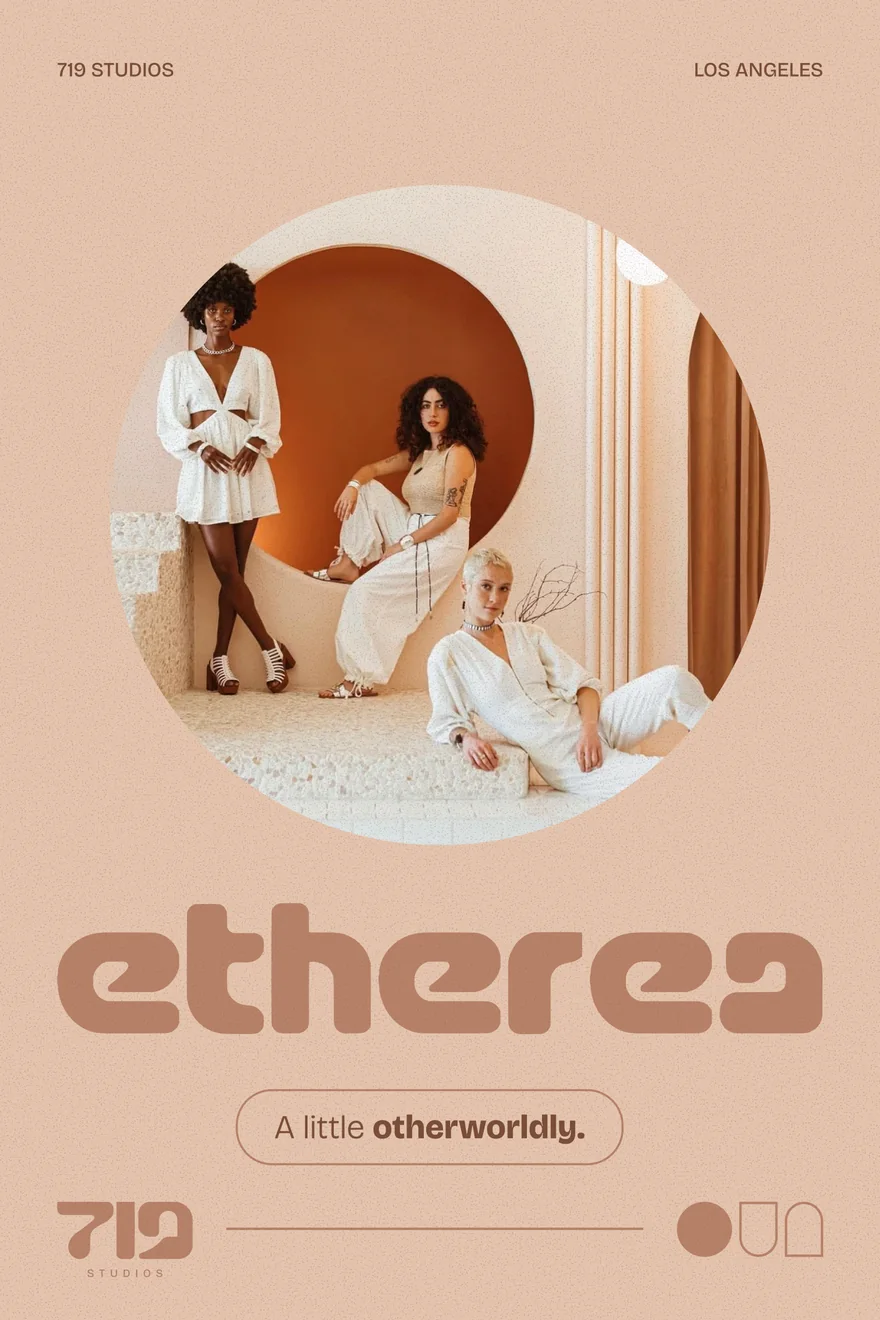
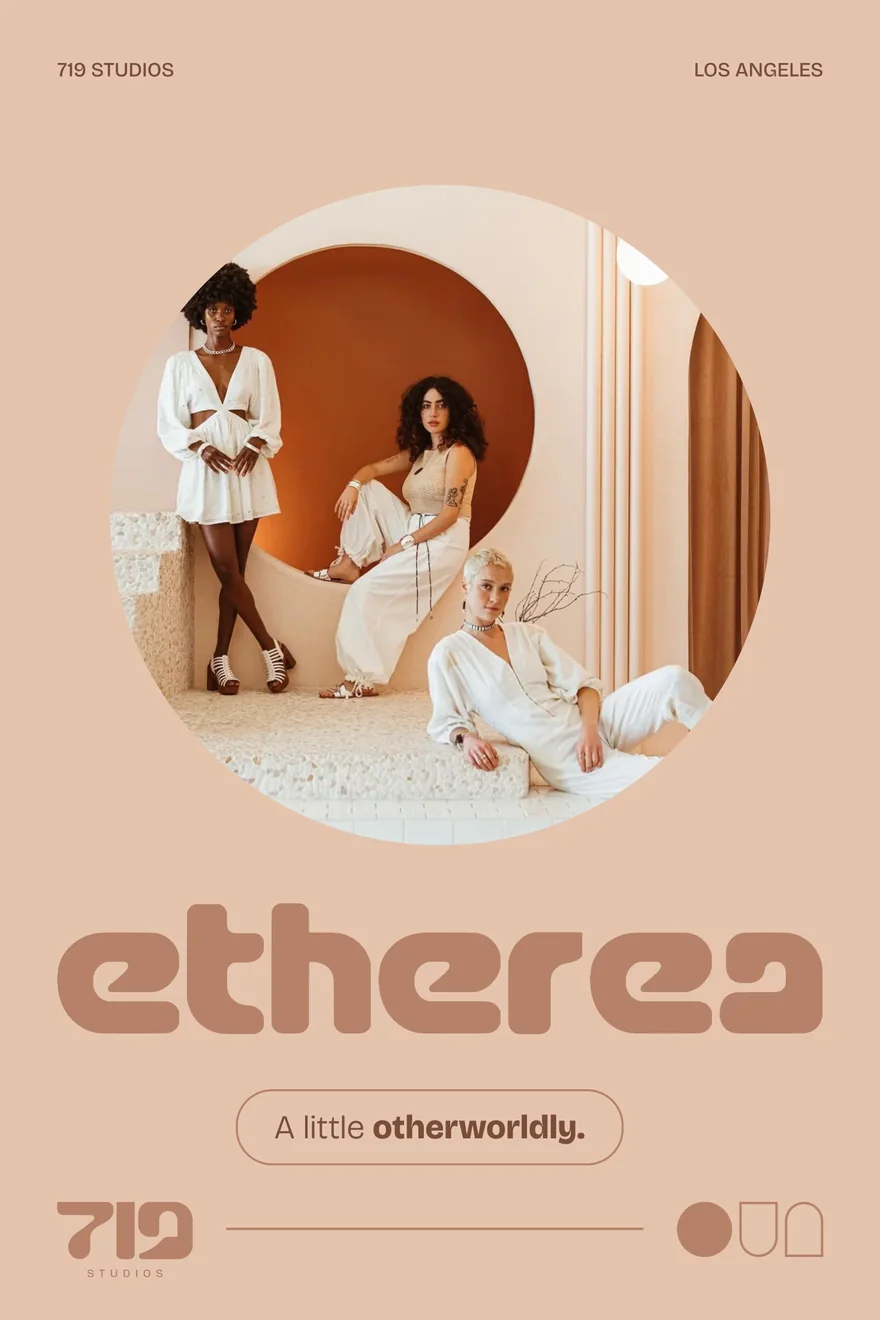
719 Studios: posters without the paper grain
The noise effect is removed from the three posters; the corner shapes and footer rule stay.

diff --git a/work/719-studios/index.html b/work/719-studios/index.html
@@ -85,21 +85,21 @@
     </div>
   </section>
   <div class="g">
-    <figure class="cell c12" data-reveal role="img" aria-label="The 719 Studios logo set inside the orange circle of the Etherea room"><img src="../../assets/img/work/719/deck/figma/04-etherea-1920.webp?v=20261117b" srcset="../../assets/img/work/719/deck/figma/04-etherea-960.webp?v=20261117b 960w, ../../assets/img/work/719/deck/figma/04-etherea-1920.webp?v=20261117b 1920w" sizes="100vw" width="1920" height="1080" alt="" decoding="async"></figure>
-    <figure class="cell c12" data-reveal role="img" aria-label="The five brand colours with their names and values: Umber, Clay, Blush, Sand and Birch"><img src="../../assets/img/work/719/deck/figma/02-palette-1920.webp?v=20261117b" srcset="../../assets/img/work/719/deck/figma/02-palette-960.webp?v=20261117b 960w, ../../assets/img/work/719/deck/figma/02-palette-1920.webp?v=20261117b 1920w" sizes="100vw" width="1920" height="1080" alt="" loading="lazy" decoding="async"></figure>
-    <figure class="cell c6" data-reveal role="img" aria-label="The 719 Studios logo in clay on a pale birch ground"><img src="../../assets/img/work/719/deck/figma/01-logo-1920.webp?v=20261117b" srcset="../../assets/img/work/719/deck/figma/01-logo-960.webp?v=20261117b 960w, ../../assets/img/work/719/deck/figma/01-logo-1920.webp?v=20261117b 1920w" sizes="(max-width: 799px) 100vw, 50vw" width="1920" height="1080" alt="" loading="lazy" decoding="async"></figure>
-    <figure class="cell c6" data-reveal role="img" aria-label="The typeface Bricolage Grotesque in three weights, with the three studio taglines"><img src="../../assets/img/work/719/deck/figma/03-type-1920.webp?v=20261117b" srcset="../../assets/img/work/719/deck/figma/03-type-960.webp?v=20261117b 960w, ../../assets/img/work/719/deck/figma/03-type-1920.webp?v=20261117b 1920w" sizes="(max-width: 799px) 100vw, 50vw" width="1920" height="1080" alt="" loading="lazy" decoding="async"></figure>
-    <figure class="cell c4 tall" data-reveal role="img" aria-label="The Etherea poster: its room through a circle, with the line A little otherworldly"><img src="../../assets/img/work/719/deck/figma/05-poster-etherea-880.webp?v=20261117b" srcset="../../assets/img/work/719/deck/figma/05-poster-etherea-440.webp?v=20261117b 440w, ../../assets/img/work/719/deck/figma/05-poster-etherea-880.webp?v=20261117b 880w, ../../assets/img/work/719/deck/figma/05-poster-etherea-1180.webp?v=20261117b 1180w" sizes="(max-width: 799px) 100vw, 33vw" width="1468" height="2202" alt="" loading="lazy" decoding="async"></figure>
-    <figure class="cell c4 tall" data-reveal role="img" aria-label="The Terra poster: its room through an upside-down arch, with the line Find your own angle"><img src="../../assets/img/work/719/deck/figma/05-poster-terra-880.webp?v=20261117b" srcset="../../assets/img/work/719/deck/figma/05-poster-terra-440.webp?v=20261117b 440w, ../../assets/img/work/719/deck/figma/05-poster-terra-880.webp?v=20261117b 880w, ../../assets/img/work/719/deck/figma/05-poster-terra-1180.webp?v=20261117b 1180w" sizes="(max-width: 799px) 100vw, 33vw" width="1468" height="2202" alt="" loading="lazy" decoding="async"></figure>
-    <figure class="cell c4 tall" data-reveal role="img" aria-label="The Solaris poster: its room through an arch, with the line Let the light in"><img src="../../assets/img/work/719/deck/figma/05-poster-solaris-880.webp?v=20261117b" srcset="../../assets/img/work/719/deck/figma/05-poster-solaris-440.webp?v=20261117b 440w, ../../assets/img/work/719/deck/figma/05-poster-solaris-880.webp?v=20261117b 880w, ../../assets/img/work/719/deck/figma/05-poster-solaris-1180.webp?v=20261117b 1180w" sizes="(max-width: 799px) 100vw, 33vw" width="1468" height="2202" alt="" loading="lazy" decoding="async"></figure>
-    <figure class="cell c12" data-reveal role="img" aria-label="Four figures over a photo taken at Etherea: 1,000+ reviews, 5.0 average rating, No. 9 on Peerspace in Los Angeles in 2023, 3.2M timelapse views"><img src="../../assets/img/work/719/deck/figma/06-numbers-1920.webp?v=20261117b" srcset="../../assets/img/work/719/deck/figma/06-numbers-960.webp?v=20261117b 960w, ../../assets/img/work/719/deck/figma/06-numbers-1920.webp?v=20261117b 1920w" sizes="100vw" width="1920" height="1080" alt="" loading="lazy" decoding="async"></figure>
-    <figure class="cell c6" data-reveal role="img" aria-label="The 719 Studios logo over the empty Terra room"><img src="../../assets/img/work/719/deck/figma/07-terra-1920.webp?v=20261117b" srcset="../../assets/img/work/719/deck/figma/07-terra-960.webp?v=20261117b 960w, ../../assets/img/work/719/deck/figma/07-terra-1920.webp?v=20261117b 1920w" sizes="(max-width: 799px) 100vw, 50vw" width="1920" height="1080" alt="" loading="lazy" decoding="async"></figure>
-    <figure class="cell c6" data-reveal role="img" aria-label="Two oversized studio shapes with a circle between them holding the logo"><img src="../../assets/img/work/719/deck/figma/09-pattern-shapes-1920.webp?v=20261117b" srcset="../../assets/img/work/719/deck/figma/09-pattern-shapes-960.webp?v=20261117b 960w, ../../assets/img/work/719/deck/figma/09-pattern-shapes-1920.webp?v=20261117b 1920w" sizes="(max-width: 799px) 100vw, 50vw" width="1920" height="1080" alt="" loading="lazy" decoding="async"></figure>
-    <figure class="cell c12" data-reveal role="img" aria-label="A concept ad banner with the line Room to make and three photos seen through the studio shapes"><img src="../../assets/img/work/719/deck/figma/10-ad-1920.webp?v=20261117b" srcset="../../assets/img/work/719/deck/figma/10-ad-960.webp?v=20261117b 960w, ../../assets/img/work/719/deck/figma/10-ad-1920.webp?v=20261117b 1920w" sizes="100vw" width="1920" height="1080" alt="" loading="lazy" decoding="async"></figure>
-    <figure class="cell c6" data-reveal role="img" aria-label="A concept email signature with the three studio shapes and the logo"><img src="../../assets/img/work/719/deck/figma/11-email-1920.webp?v=20261117b" srcset="../../assets/img/work/719/deck/figma/11-email-960.webp?v=20261117b 960w, ../../assets/img/work/719/deck/figma/11-email-1920.webp?v=20261117b 1920w" sizes="(max-width: 799px) 100vw, 50vw" width="1920" height="1080" alt="" loading="lazy" decoding="async"></figure>
-    <figure class="cell c6" data-reveal role="img" aria-label="A concept website header with the line Room to make and a large circular photo"><img src="../../assets/img/work/719/deck/figma/12-website-1920.webp?v=20261117b" srcset="../../assets/img/work/719/deck/figma/12-website-960.webp?v=20261117b 960w, ../../assets/img/work/719/deck/figma/12-website-1920.webp?v=20261117b 1920w" sizes="(max-width: 799px) 100vw, 50vw" width="1920" height="1080" alt="" loading="lazy" decoding="async"></figure>
-    <figure class="cell c6" data-reveal role="img" aria-label="A concept T-shirt in clay with the three studio shapes on the back, worn in a room like Solaris"><img src="../../assets/img/work/719/deck/figma/13-shirt-1920.webp?v=20261117b" srcset="../../assets/img/work/719/deck/figma/13-shirt-960.webp?v=20261117b 960w, ../../assets/img/work/719/deck/figma/13-shirt-1920.webp?v=20261117b 1920w" sizes="(max-width: 799px) 100vw, 50vw" width="1920" height="1080" alt="" loading="lazy" decoding="async"></figure>
-    <figure class="cell c6" data-reveal role="img" aria-label="A concept canvas tote bag with the logo, carried in a room like Terra"><img src="../../assets/img/work/719/deck/figma/14-tote-1920.webp?v=20261117b" srcset="../../assets/img/work/719/deck/figma/14-tote-960.webp?v=20261117b 960w, ../../assets/img/work/719/deck/figma/14-tote-1920.webp?v=20261117b 1920w" sizes="(max-width: 799px) 100vw, 50vw" width="1920" height="1080" alt="" loading="lazy" decoding="async"></figure>
+    <figure class="cell c12" data-reveal role="img" aria-label="The 719 Studios logo set inside the orange circle of the Etherea room"><img src="../../assets/img/work/719/deck/figma/04-etherea-1920.webp?v=20261117c" srcset="../../assets/img/work/719/deck/figma/04-etherea-960.webp?v=20261117c 960w, ../../assets/img/work/719/deck/figma/04-etherea-1920.webp?v=20261117c 1920w" sizes="100vw" width="1920" height="1080" alt="" decoding="async"></figure>
+    <figure class="cell c12" data-reveal role="img" aria-label="The five brand colours with their names and values: Umber, Clay, Blush, Sand and Birch"><img src="../../assets/img/work/719/deck/figma/02-palette-1920.webp?v=20261117c" srcset="../../assets/img/work/719/deck/figma/02-palette-960.webp?v=20261117c 960w, ../../assets/img/work/719/deck/figma/02-palette-1920.webp?v=20261117c 1920w" sizes="100vw" width="1920" height="1080" alt="" loading="lazy" decoding="async"></figure>
+    <figure class="cell c6" data-reveal role="img" aria-label="The 719 Studios logo in clay on a pale birch ground"><img src="../../assets/img/work/719/deck/figma/01-logo-1920.webp?v=20261117c" srcset="../../assets/img/work/719/deck/figma/01-logo-960.webp?v=20261117c 960w, ../../assets/img/work/719/deck/figma/01-logo-1920.webp?v=20261117c 1920w" sizes="(max-width: 799px) 100vw, 50vw" width="1920" height="1080" alt="" loading="lazy" decoding="async"></figure>
+    <figure class="cell c6" data-reveal role="img" aria-label="The typeface Bricolage Grotesque in three weights, with the three studio taglines"><img src="../../assets/img/work/719/deck/figma/03-type-1920.webp?v=20261117c" srcset="../../assets/img/work/719/deck/figma/03-type-960.webp?v=20261117c 960w, ../../assets/img/work/719/deck/figma/03-type-1920.webp?v=20261117c 1920w" sizes="(max-width: 799px) 100vw, 50vw" width="1920" height="1080" alt="" loading="lazy" decoding="async"></figure>
+    <figure class="cell c4 tall" data-reveal role="img" aria-label="The Etherea poster: its room through a circle, with the line A little otherworldly"><img src="../../assets/img/work/719/deck/figma/05-poster-etherea-880.webp?v=20261117c" srcset="../../assets/img/work/719/deck/figma/05-poster-etherea-440.webp?v=20261117c 440w, ../../assets/img/work/719/deck/figma/05-poster-etherea-880.webp?v=20261117c 880w, ../../assets/img/work/719/deck/figma/05-poster-etherea-1180.webp?v=20261117c 1180w" sizes="(max-width: 799px) 100vw, 33vw" width="1468" height="2202" alt="" loading="lazy" decoding="async"></figure>
+    <figure class="cell c4 tall" data-reveal role="img" aria-label="The Terra poster: its room through an upside-down arch, with the line Find your own angle"><img src="../../assets/img/work/719/deck/figma/05-poster-terra-880.webp?v=20261117c" srcset="../../assets/img/work/719/deck/figma/05-poster-terra-440.webp?v=20261117c 440w, ../../assets/img/work/719/deck/figma/05-poster-terra-880.webp?v=20261117c 880w, ../../assets/img/work/719/deck/figma/05-poster-terra-1180.webp?v=20261117c 1180w" sizes="(max-width: 799px) 100vw, 33vw" width="1468" height="2202" alt="" loading="lazy" decoding="async"></figure>
+    <figure class="cell c4 tall" data-reveal role="img" aria-label="The Solaris poster: its room through an arch, with the line Let the light in"><img src="../../assets/img/work/719/deck/figma/05-poster-solaris-880.webp?v=20261117c" srcset="../../assets/img/work/719/deck/figma/05-poster-solaris-440.webp?v=20261117c 440w, ../../assets/img/work/719/deck/figma/05-poster-solaris-880.webp?v=20261117c 880w, ../../assets/img/work/719/deck/figma/05-poster-solaris-1180.webp?v=20261117c 1180w" sizes="(max-width: 799px) 100vw, 33vw" width="1468" height="2202" alt="" loading="lazy" decoding="async"></figure>
+    <figure class="cell c12" data-reveal role="img" aria-label="Four figures over a photo taken at Etherea: 1,000+ reviews, 5.0 average rating, No. 9 on Peerspace in Los Angeles in 2023, 3.2M timelapse views"><img src="../../assets/img/work/719/deck/figma/06-numbers-1920.webp?v=20261117c" srcset="../../assets/img/work/719/deck/figma/06-numbers-960.webp?v=20261117c 960w, ../../assets/img/work/719/deck/figma/06-numbers-1920.webp?v=20261117c 1920w" sizes="100vw" width="1920" height="1080" alt="" loading="lazy" decoding="async"></figure>
+    <figure class="cell c6" data-reveal role="img" aria-label="The 719 Studios logo over the empty Terra room"><img src="../../assets/img/work/719/deck/figma/07-terra-1920.webp?v=20261117c" srcset="../../assets/img/work/719/deck/figma/07-terra-960.webp?v=20261117c 960w, ../../assets/img/work/719/deck/figma/07-terra-1920.webp?v=20261117c 1920w" sizes="(max-width: 799px) 100vw, 50vw" width="1920" height="1080" alt="" loading="lazy" decoding="async"></figure>
+    <figure class="cell c6" data-reveal role="img" aria-label="Two oversized studio shapes with a circle between them holding the logo"><img src="../../assets/img/work/719/deck/figma/09-pattern-shapes-1920.webp?v=20261117c" srcset="../../assets/img/work/719/deck/figma/09-pattern-shapes-960.webp?v=20261117c 960w, ../../assets/img/work/719/deck/figma/09-pattern-shapes-1920.webp?v=20261117c 1920w" sizes="(max-width: 799px) 100vw, 50vw" width="1920" height="1080" alt="" loading="lazy" decoding="async"></figure>
+    <figure class="cell c12" data-reveal role="img" aria-label="A concept ad banner with the line Room to make and three photos seen through the studio shapes"><img src="../../assets/img/work/719/deck/figma/10-ad-1920.webp?v=20261117c" srcset="../../assets/img/work/719/deck/figma/10-ad-960.webp?v=20261117c 960w, ../../assets/img/work/719/deck/figma/10-ad-1920.webp?v=20261117c 1920w" sizes="100vw" width="1920" height="1080" alt="" loading="lazy" decoding="async"></figure>
+    <figure class="cell c6" data-reveal role="img" aria-label="A concept email signature with the three studio shapes and the logo"><img src="../../assets/img/work/719/deck/figma/11-email-1920.webp?v=20261117c" srcset="../../assets/img/work/719/deck/figma/11-email-960.webp?v=20261117c 960w, ../../assets/img/work/719/deck/figma/11-email-1920.webp?v=20261117c 1920w" sizes="(max-width: 799px) 100vw, 50vw" width="1920" height="1080" alt="" loading="lazy" decoding="async"></figure>
+    <figure class="cell c6" data-reveal role="img" aria-label="A concept website header with the line Room to make and a large circular photo"><img src="../../assets/img/work/719/deck/figma/12-website-1920.webp?v=20261117c" srcset="../../assets/img/work/719/deck/figma/12-website-960.webp?v=20261117c 960w, ../../assets/img/work/719/deck/figma/12-website-1920.webp?v=20261117c 1920w" sizes="(max-width: 799px) 100vw, 50vw" width="1920" height="1080" alt="" loading="lazy" decoding="async"></figure>
+    <figure class="cell c6" data-reveal role="img" aria-label="A concept T-shirt in clay with the three studio shapes on the back, worn in a room like Solaris"><img src="../../assets/img/work/719/deck/figma/13-shirt-1920.webp?v=20261117c" srcset="../../assets/img/work/719/deck/figma/13-shirt-960.webp?v=20261117c 960w, ../../assets/img/work/719/deck/figma/13-shirt-1920.webp?v=20261117c 1920w" sizes="(max-width: 799px) 100vw, 50vw" width="1920" height="1080" alt="" loading="lazy" decoding="async"></figure>
+    <figure class="cell c6" data-reveal role="img" aria-label="A concept canvas tote bag with the logo, carried in a room like Terra"><img src="../../assets/img/work/719/deck/figma/14-tote-1920.webp?v=20261117c" srcset="../../assets/img/work/719/deck/figma/14-tote-960.webp?v=20261117c 960w, ../../assets/img/work/719/deck/figma/14-tote-1920.webp?v=20261117c 1920w" sizes="(max-width: 799px) 100vw, 50vw" width="1920" height="1080" alt="" loading="lazy" decoding="async"></figure>
   </div>
   <p class="hud fine">The three studios, room photos, reviews, award and timelapse views are real. Website, ad, email signature, T-shirt and tote bag are unproduced concepts; both pictures of people are AI-generated.</p>
 </main>
